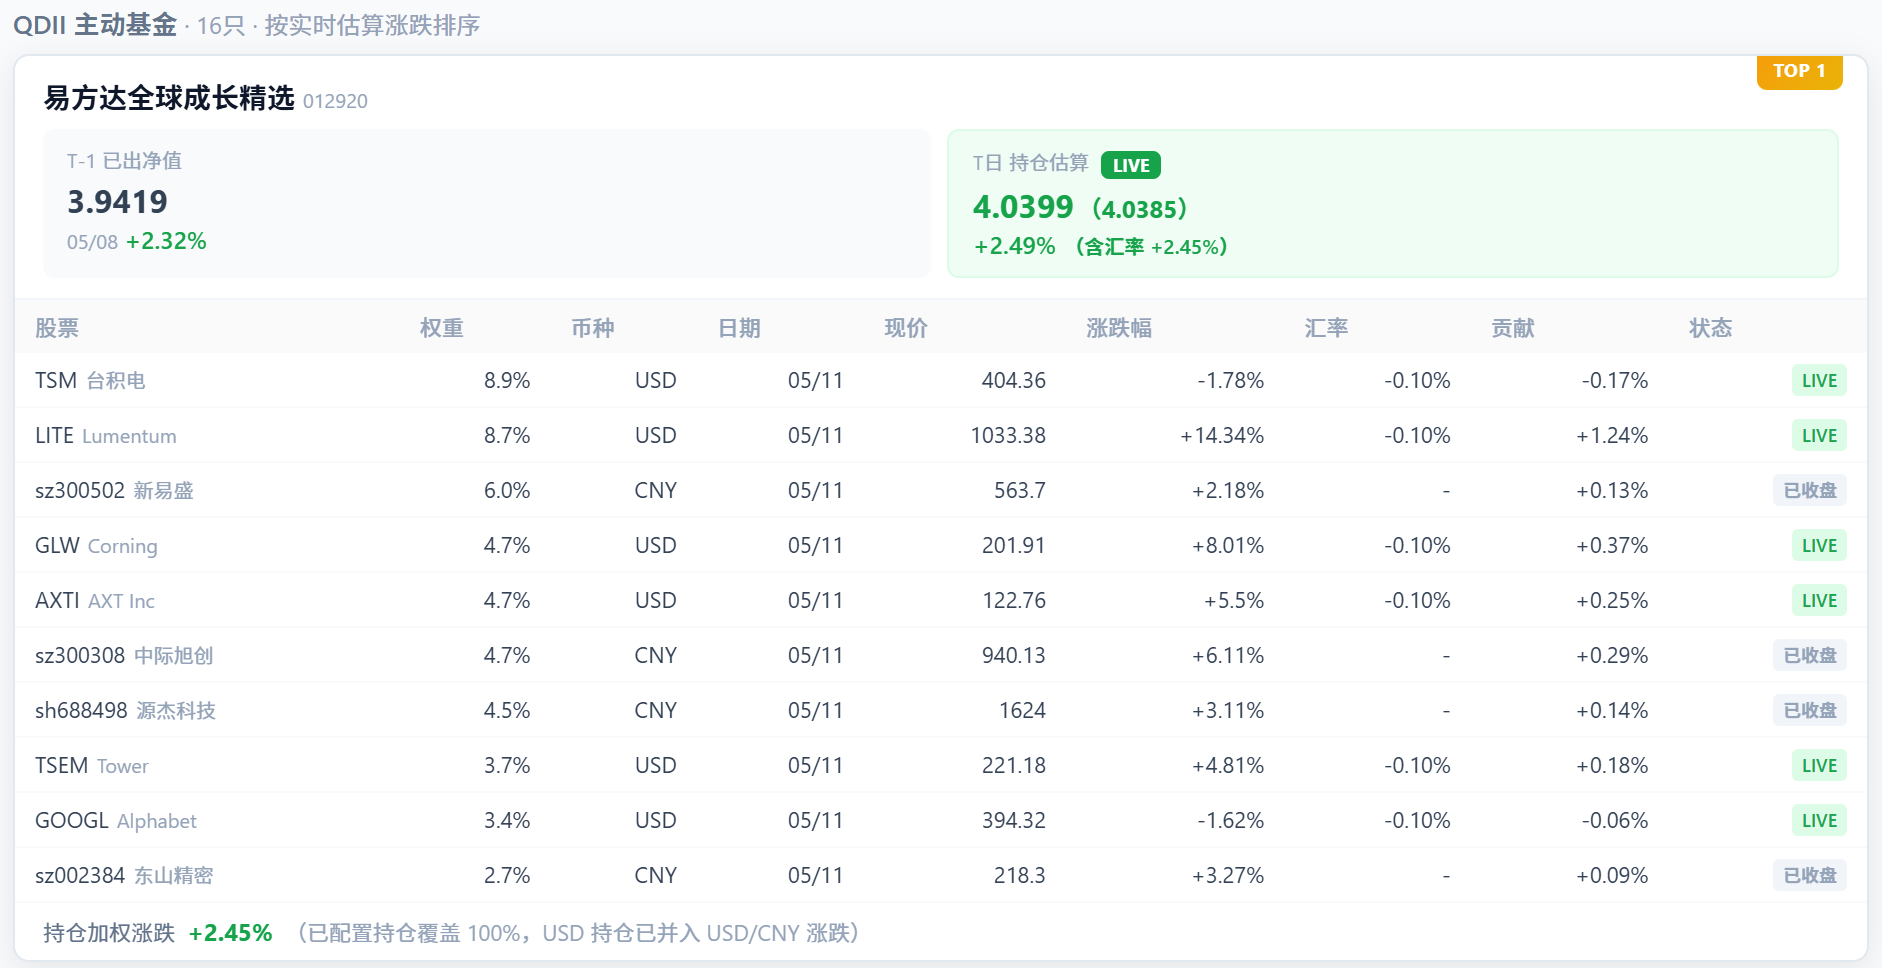
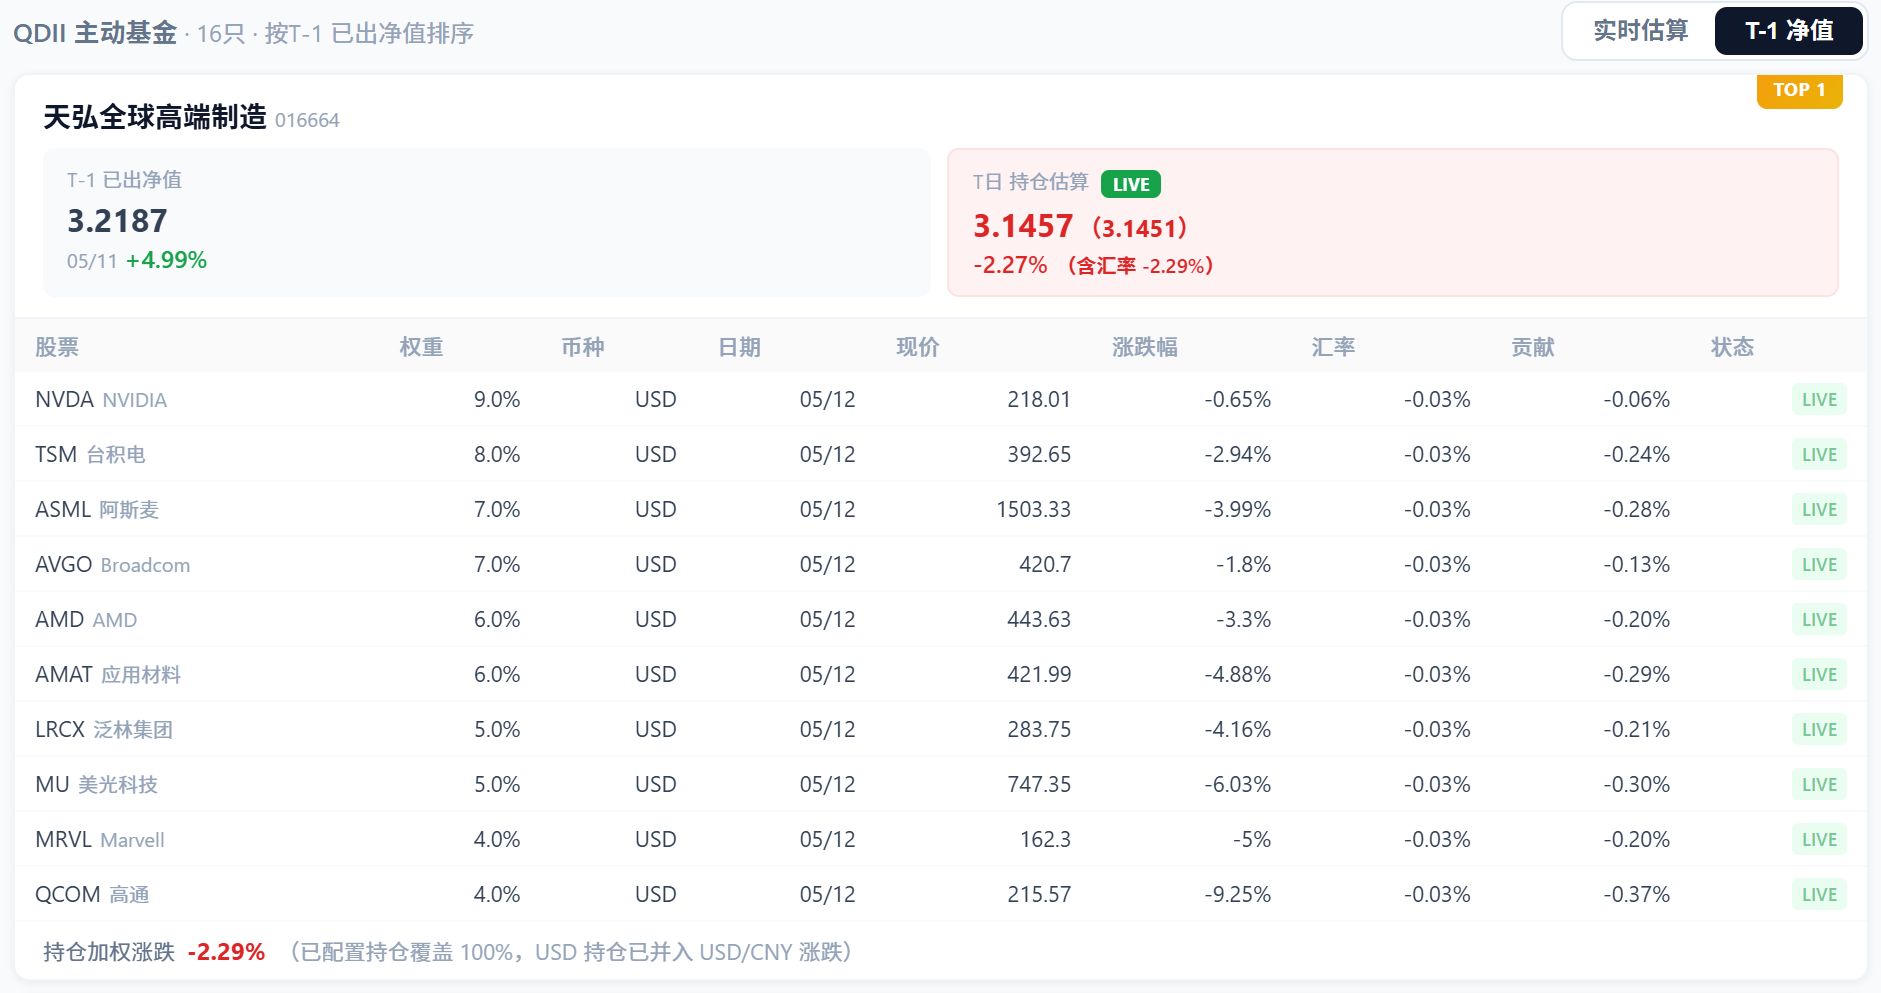
feat: release v1.1.0

diff --git a/src/App.tsx b/src/App.tsx
@@ -1,4 +1,4 @@
-import { useMemo } from 'react';
+import { useMemo, useState } from 'react';
 import { useQuotes, FundEstimate } from './hooks/useQuotes';
 import { FUNDS } from './constants';
 import Header from './components/Header';
@@ -6,16 +6,23 @@ import IndexCards from './components/IndexCards';
 import FundCard from './components/FundCard';
 import styles from './App.module.css';
 
+type SortMode = 'estimate' | 'official';
+
 export default function App() {
   const { quotes, fundEstimates, fxRates, loading, error } = useQuotes();
+  const [sortMode, setSortMode] = useState<SortMode>('estimate');
 
-  // Sort by computedChange descending
   const sortedEstimates = useMemo(() => {
-    const sorted = [...fundEstimates].sort(
-      (a, b) => b.computedChange - a.computedChange,
-    );
+    const sorted = [...fundEstimates].sort((a, b) => {
+      if (sortMode === 'official') {
+        return (b.officialNAV?.officialChange ?? -Infinity) - (a.officialNAV?.officialChange ?? -Infinity);
+      }
+      return b.computedChange - a.computedChange;
+    });
     return sorted.map((e, i) => ({ ...e, rank: i + 1 }));
-  }, [fundEstimates]);
+  }, [fundEstimates, sortMode]);
+
+  const sortLabel = sortMode === 'official' ? '按T-1 已出净值排序' : '按实时估算涨跌排序';
 
   return (
     <div className={styles.app}>
@@ -23,9 +30,27 @@ export default function App() {
       {error && <div className={styles.error}>{error}</div>}
       <IndexCards quotes={quotes} loading={loading} />
       <div className={styles.fundSection}>
-        <h2 className={styles.sectionTitle}>
-          QDII 主动基金<span className={styles.count}> · {FUNDS.length}只 · 按实时估算涨跌排序</span>
-        </h2>
+        <div className={styles.sectionHeader}>
+          <h2 className={styles.sectionTitle}>
+            QDII 主动基金<span className={styles.count}> · {FUNDS.length}只 · {sortLabel}</span>
+          </h2>
+          <div className={styles.sortToggle} aria-label="基金排序方式">
+            <button
+              type="button"
+              className={`${styles.sortButton} ${sortMode === 'estimate' ? styles.sortButtonActive : ''}`}
+              onClick={() => setSortMode('estimate')}
+            >
+              实时估算
+            </button>
+            <button
+              type="button"
+              className={`${styles.sortButton} ${sortMode === 'official' ? styles.sortButtonActive : ''}`}
+              onClick={() => setSortMode('official')}
+            >
+              T-1 净值
+            </button>
+          </div>
+        </div>
         {sortedEstimates.map((est) => {
           const fund = FUNDS.find((f) => f.code === est.fundCode)!;
           return (

diff --git a/src/components/IndexCards.tsx b/src/components/IndexCards.tsx
@@ -1,5 +1,5 @@
 import type { QuoteData, IndexConfig } from '../types';
-import { INDICES } from '../constants';
+import { INDICES, MARKET_ASSETS } from '../constants';
 import { getMarketState } from '../marketHours';
 import styles from './IndexCards.module.css';
 
@@ -86,7 +86,9 @@ export default function IndexCards({ quotes, loading }: Props) {
     { title: 'A股', symbols: ['s_sh000001', 's_sz399006', 's_sh000300', 's_sh000905'], cols: 'grid4' },
     { title: '美股', symbols: ['gb_ixic', 'gb_ndx', 'gb_inx', 'gb_dji'], cols: 'grid4' },
     { title: '亚太', symbols: ['hkHSI', 'int_nikkei', 'b_KOSPI', 'b_TWSE'], cols: 'grid4' },
+    { title: '资产', symbols: ['hf_GC', 'hf_SI', 'hf_CL', 'fx_sbtcusd'], cols: 'grid4' },
   ];
+  const cards = [...INDICES, ...MARKET_ASSETS];
 
   return (
     <div className={styles.container}>
@@ -95,7 +97,7 @@ export default function IndexCards({ quotes, loading }: Props) {
           <div className={styles.sectionTitle}>{g.title}</div>
           <div className={`${styles.grid} ${styles[g.cols]}`}>
             {g.symbols.map((sym) => {
-              const idx = INDICES.find((i) => i.sinaSymbol === sym)!;
+              const idx = cards.find((i) => i.sinaSymbol === sym)!;
               return (
                 <Card
                   key={sym}

diff --git a/src/marketHours.ts b/src/marketHours.ts
@@ -205,7 +205,14 @@ function isInFuturesSession(calendar: FuturesCalendar, local: ZonedNow): boolean
 }
 
 function futuresMarketKey(sinaSymbol: string): string | null {
-  if (sinaSymbol === 'hf_NQ' || sinaSymbol === 'hf_ES' || sinaSymbol === 'hf_YM') return 'us_futures';
+  if (
+    sinaSymbol === 'hf_NQ' ||
+    sinaSymbol === 'hf_ES' ||
+    sinaSymbol === 'hf_YM' ||
+    sinaSymbol === 'hf_GC' ||
+    sinaSymbol === 'hf_SI' ||
+    sinaSymbol === 'hf_CL'
+  ) return 'us_futures';
   if (sinaSymbol === 'hf_HSI') return 'hk_futures';
   if (sinaSymbol === 'hf_NK') return 'jp_futures';
   return null;
@@ -220,6 +227,7 @@ function marketKey(sinaSymbol: string): string | null {
   if (sinaSymbol === 'int_nikkei') return 'jp';
   if (sinaSymbol === 'b_KOSPI') return 'kr';
   if (sinaSymbol === 'b_TWSE') return 'tw';
+  if (sinaSymbol === 'fx_sbtcusd') return 'crypto';
   return null;
 }
 
@@ -246,6 +254,8 @@ export function getMarketState(sinaSymbol: string, now = new Date()): MarketStat
     const local = zonedNow(calendar.timezone, now);
     return isInFuturesSession(calendar, local) ? 'live' : 'closed';
   }
+
+  if (key === 'crypto') return 'live';
 
   const calendar = MARKETS[key];
   const local = zonedNow(calendar.timezone, now);

diff --git a/src/api.ts b/src/api.ts
@@ -1,8 +1,9 @@
 import type { QuoteData, FundNavData, FxRateData } from './types';
 
-type Market = 'us' | 'cn_index' | 'cn_stock' | 'intl_index' | 'hk' | 'global_future' | 'fund' | 'fx';
+type Market = 'us' | 'cn_index' | 'cn_stock' | 'intl_index' | 'hk' | 'global_future' | 'crypto' | 'fund' | 'fx';
 
 function marketType(raw: string): Market {
+  if (raw === 'fx_sbtcusd') return 'crypto';
   if (raw.startsWith('fx_')) return 'fx';
   if (raw.startsWith('hf_')) return 'global_future';
   if (raw.startsWith('gb_')) return 'us';
@@ -118,6 +119,19 @@ function parseSinaVar(line: string, fetchedAt: number): { symbol: string; data: 
         dateReliable = false;
       }
       break;
+    case 'crypto': {
+      if (fields.length < 12) return null;
+      price = parseFloat(fields[1]) || 0;
+      const changeRaw = parseFloat(fields[11]) || 0;
+      previousClose = price - changeRaw || price;
+      changePct = parseFloat(fields[10]) || 0;
+      date = [...fields].reverse().find((field) => /^\d{4}-\d{2}-\d{2}$/.test(field)) ?? beijingDate();
+      if (isStale(date)) {
+        date = beijingDate();
+        dateReliable = false;
+      }
+      break;
+    }
     case 'cn_stock':
     default:
       if (fields.length < 10) return null;

diff --git a/src/hooks/useQuotes.ts b/src/hooks/useQuotes.ts
@@ -1,7 +1,7 @@
 import { useState, useEffect, useRef } from 'react';
 import type { QuoteData, FundNavData, FxRateData } from '../types';
 import { fetchAllQuotes, fetchFundNavs, fetchSinaFundNavs, fetchFundHistory, fetchFxRates } from '../api';
-import { INDICES, FUNDS } from '../constants';
+import { INDICES, MARKET_ASSETS, FUNDS } from '../constants';
 
 export interface FundEstimate {
   fundCode: string;
@@ -35,11 +35,12 @@ export function useQuotes() {
       setError(null);
 
       const indexSymbols = INDICES.map((i) => i.sinaSymbol);
+      const assetSymbols = MARKET_ASSETS.map((i) => i.sinaSymbol);
       const futuresSymbols = INDICES.flatMap((i) => i.futures?.sinaSymbol ?? []);
       const holdingSymbols = FUNDS.flatMap((f) =>
         f.holdings.map((h) => h.sinaSymbol),
       );
-      const allSinaSymbols = [...new Set([...indexSymbols, ...futuresSymbols, ...holdingSymbols])];
+      const allSinaSymbols = [...new Set([...indexSymbols, ...futuresSymbols, ...assetSymbols, ...holdingSymbols])];
 
       try {
         const fundCodes = FUNDS.map((f) => f.code);

diff --git a/src/App.module.css b/src/App.module.css
@@ -22,15 +22,58 @@
   margin: 0 auto;
 }
 
+.sectionHeader {
+  display: flex;
+  align-items: center;
+  justify-content: space-between;
+  gap: 12px;
+  margin: 16px 0 6px;
+}
+
 .sectionTitle {
   font-size: 13px;
   font-weight: 600;
   color: #64748b;
-  margin: 16px 0 6px;
+  margin: 0;
 }
 
 .count {
   font-weight: 400;
   font-size: 12px;
   color: #94a3b8;
+}
+
+.sortToggle {
+  display: inline-flex;
+  flex: 0 0 auto;
+  padding: 2px;
+  border: 1px solid #e2e8f0;
+  border-radius: 8px;
+  background: #fff;
+}
+
+.sortButton {
+  min-width: 74px;
+  border: 0;
+  border-radius: 6px;
+  background: transparent;
+  color: #64748b;
+  cursor: pointer;
+  font-size: 12px;
+  font-weight: 600;
+  line-height: 24px;
+  padding: 0 8px;
+}
+
+.sortButtonActive {
+  background: #0f172a;
+  color: #fff;
+}
+
+@media (max-width: 640px) {
+  .sectionHeader {
+    align-items: flex-start;
+    flex-direction: column;
+    gap: 8px;
+  }
 }

diff --git a/src/constants.ts b/src/constants.ts
@@ -26,6 +26,13 @@ export const INDICES: IndexConfig[] = [
   { symbol: 'TWSE', name: '台湾加权', sinaSymbol: 'b_TWSE' },
 ];
 
+export const MARKET_ASSETS: IndexConfig[] = [
+  { symbol: 'GC', name: '黄金', sinaSymbol: 'hf_GC' },
+  { symbol: 'SI', name: '白银', sinaSymbol: 'hf_SI' },
+  { symbol: 'CL', name: '原油', sinaSymbol: 'hf_CL' },
+  { symbol: 'BTC', name: '比特币', sinaSymbol: 'fx_sbtcusd' },
+];
+
 export const FUNDS: Fund[] = [
   // ──── 纳斯达克/美股科技 ────
   {

diff --git a/src/components/Header.tsx b/src/components/Header.tsx
@@ -35,7 +35,7 @@ export default function Header({ fxRates }: Props) {
         <Logo />
         <div>
           <h1 className={styles.title}>全球基金估值看板</h1>
-          <div className={styles.subtitle}>QDII Active Funds · Real-Time NAV</div>
+          <div className={styles.subtitle}>QDII Active Funds · Market Assets</div>
         </div>
       </div>
       <div className={styles.meta}>

diff --git a/README.md b/README.md
@@ -5,13 +5,14 @@
 ## 特性
 
 - **12 个全球指数**：A 股（上证、创业板、沪深300、中证500）、美股（纳斯达克、纳指100、标普500、道琼斯）、亚太（恒生指数、日经225、韩国KOSPI、台湾加权）
+- **资产参考**：独立展示黄金、白银、原油和比特币行情，用于辅助观察风险偏好、通胀和流动性环境
 - **期货参考**：纳指100、标普500、道琼斯、恒生指数、日经225 在现货闭市且对应期货活跃时，自动显示对应期货并标注“期货 LIVE”
 - **16 只 QDII 主动基金**：覆盖纳斯达克精选、全球科技、全球成长、新兴市场等品类
 - **双净值展示**：每只基金同时展示 T-1 官方已出净值（含日间涨跌幅）和 T 日实时估算净值
 - **持仓穿透**：点击基金卡片展开前十大持仓明细，实时现价、涨跌幅、权重贡献度一目了然
 - **市场状态标签**：各市场指数与持仓股实时标注 LIVE / 延迟 / 已收盘 交易状态，LIVE 标签带呼吸脉冲动画
 - **实时排序**：按估算涨跌幅排序，涨幅 TOP 3 带有金/银/铜专属标签
-- **多市场行情**：覆盖 A 股、港股、美股、日韩台等市场的指数与个股实时行情
+- **多市场行情**：覆盖 A 股、港股、美股、日韩台等市场的指数、个股与资产参考行情
 
 ## 技术栈
 
@@ -27,7 +28,7 @@
 
 ```
 浏览器 ──→ Vite Dev Server（代理）
-              ├── /api/sina        ──→ 新浪财经（行情）
+              ├── /api/sina        ──→ 新浪财经（指数/股票/资产行情）
               ├── /api/fundnav     ──→ 天天基金（净值估算）
               └── /api/fundhistory ──→ 东方财富（历史净值）
 ```
@@ -97,10 +98,14 @@ npm run preview   # 预览生产构建
 
 ![概览](./demo/overview.png)
 
+### 详情
+
+![详情](./demo/detail.png)
+
 
 ## 数据说明
 
-- **实时行情**：来自新浪财经，A 股为交易时段实时，美股为北京时间晚间实时。港股和亚太指数非交易时段显示前收盘价；纳指100、标普500、道琼斯、恒生指数和日经225在现货闭市时可显示对应期货参考行情
+- **实时行情**：来自新浪财经，A 股为交易时段实时，美股为北京时间晚间实时。港股和亚太指数非交易时段显示前收盘价；纳指100、标普500、道琼斯、恒生指数和日经225在现货闭市时可显示对应期货参考行情；资产分组展示黄金、白银、原油和比特币行情
 - **市场状态**：各市场根据交易所本地时区、周末和 2026 年主要休市日判定 LIVE / 延迟 / 已收盘
 - **T-1 官方净值**：来自天天基金/东方财富，为最近一个已公布的基金净值（通常为前一个美股交易日）
 - **T-1 净值涨跌幅**：来自东方财富历史净值数据，为官方净值相较前一天的日间涨跌
